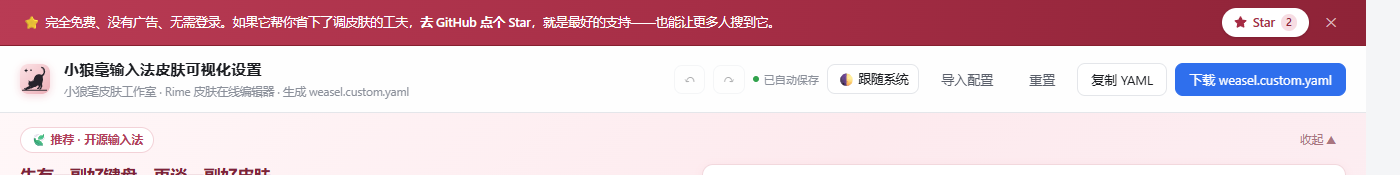
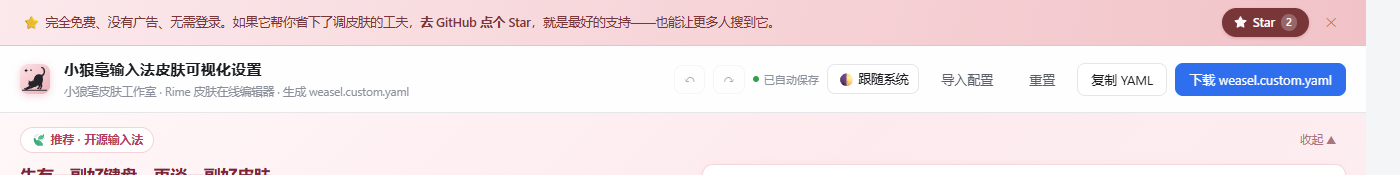
Star 条改为千禧粉配色（浅粉底深玫瑰字）

Changed region(s): [[0.0, 0.0, 0.9829, 0.2857]]

diff --git a/index.html b/index.html
@@ -139,20 +139,20 @@
     --promo-tog-hover-bg:rgba(255,255,255,.85);
     --promo-tog-hover-line:#F0D2D8;
     --promo-tog-hover-text:#8A4E5B;
-    /* --- 最顶部 Star 邀请条 --- */
-    --star-bg:linear-gradient(100deg,#B93B54 0%,#A62E46 52%,#8E2337 100%);
-    --star-line:#86202F;
-    --star-text:#FFFFFF;
-    --star-btn-bg:#FFFFFF;
-    --star-btn-text:#A52B43;
-    --star-btn-hover-bg:#FFF0F3;
-    --star-btn-hover-text:#82202F;
-    --star-btn-shadow:rgba(70,8,20,.3);
-    --star-num-bg:#F7DDE3;
-    --star-num-text:#8E2337;
-    --star-x:rgba(255,255,255,.72);
-    --star-x-hover:#FFFFFF;
-    --star-x-hover-bg:rgba(255,255,255,.16);
+    /* --- 最顶部 Star 邀请条（千禧粉） --- */
+    --star-bg:linear-gradient(100deg,#FBE9EC 0%,#F6D3D7 55%,#F1C3C8 100%);
+    --star-line:#E9C1C7;
+    --star-text:#783639;
+    --star-btn-bg:#783639;
+    --star-btn-text:#FFF6F8;
+    --star-btn-hover-bg:#8E4448;
+    --star-btn-hover-text:#FFFFFF;
+    --star-btn-shadow:rgba(120,54,57,.26);
+    --star-num-bg:rgba(255,255,255,.24);
+    --star-num-text:#FFF6F8;
+    --star-x:rgba(120,54,57,.6);
+    --star-x-hover:#783639;
+    --star-x-hover-bg:rgba(120,54,57,.1);
     --radius:10px;
     --mono:"JetBrains Mono","Cascadia Mono",Consolas,"SF Mono",Menlo,monospace;
   }
@@ -227,17 +227,17 @@
     --promo-tog-hover-bg:rgba(255,255,255,.08);
     --promo-tog-hover-line:#4b323a;
     --promo-tog-hover-text:#ffd8e1;
-    --star-bg:linear-gradient(100deg,#3A1C24 0%,#4B2029 52%,#5A2431 100%);
-    --star-line:#7C2A3B;
-    --star-text:#F6DDE3;
-    --star-btn-bg:#F3C3CE;
-    --star-btn-text:#5A1A28;
-    --star-btn-hover-bg:#FFDDE5;
-    --star-btn-hover-text:#3E0F1A;
-    --star-btn-shadow:rgba(0,0,0,.42);
-    --star-num-bg:rgba(255,255,255,.14);
-    --star-num-text:#FFE3E9;
-    --star-x:rgba(246,221,227,.72);
+    --star-bg:linear-gradient(100deg,#4A2E33 0%,#5A373D 55%,#663F45 100%);
+    --star-line:#7A4A50;
+    --star-text:#F7DCE0;
+    --star-btn-bg:#F0C3C8;
+    --star-btn-text:#4E2327;
+    --star-btn-hover-bg:#FFDCE1;
+    --star-btn-hover-text:#3A161A;
+    --star-btn-shadow:rgba(0,0,0,.4);
+    --star-num-bg:rgba(78,35,39,.16);
+    --star-num-text:#4E2327;
+    --star-x:rgba(247,220,224,.72);
     --star-x-hover:#FFFFFF;
     --star-x-hover-bg:rgba(255,255,255,.1);
   }
